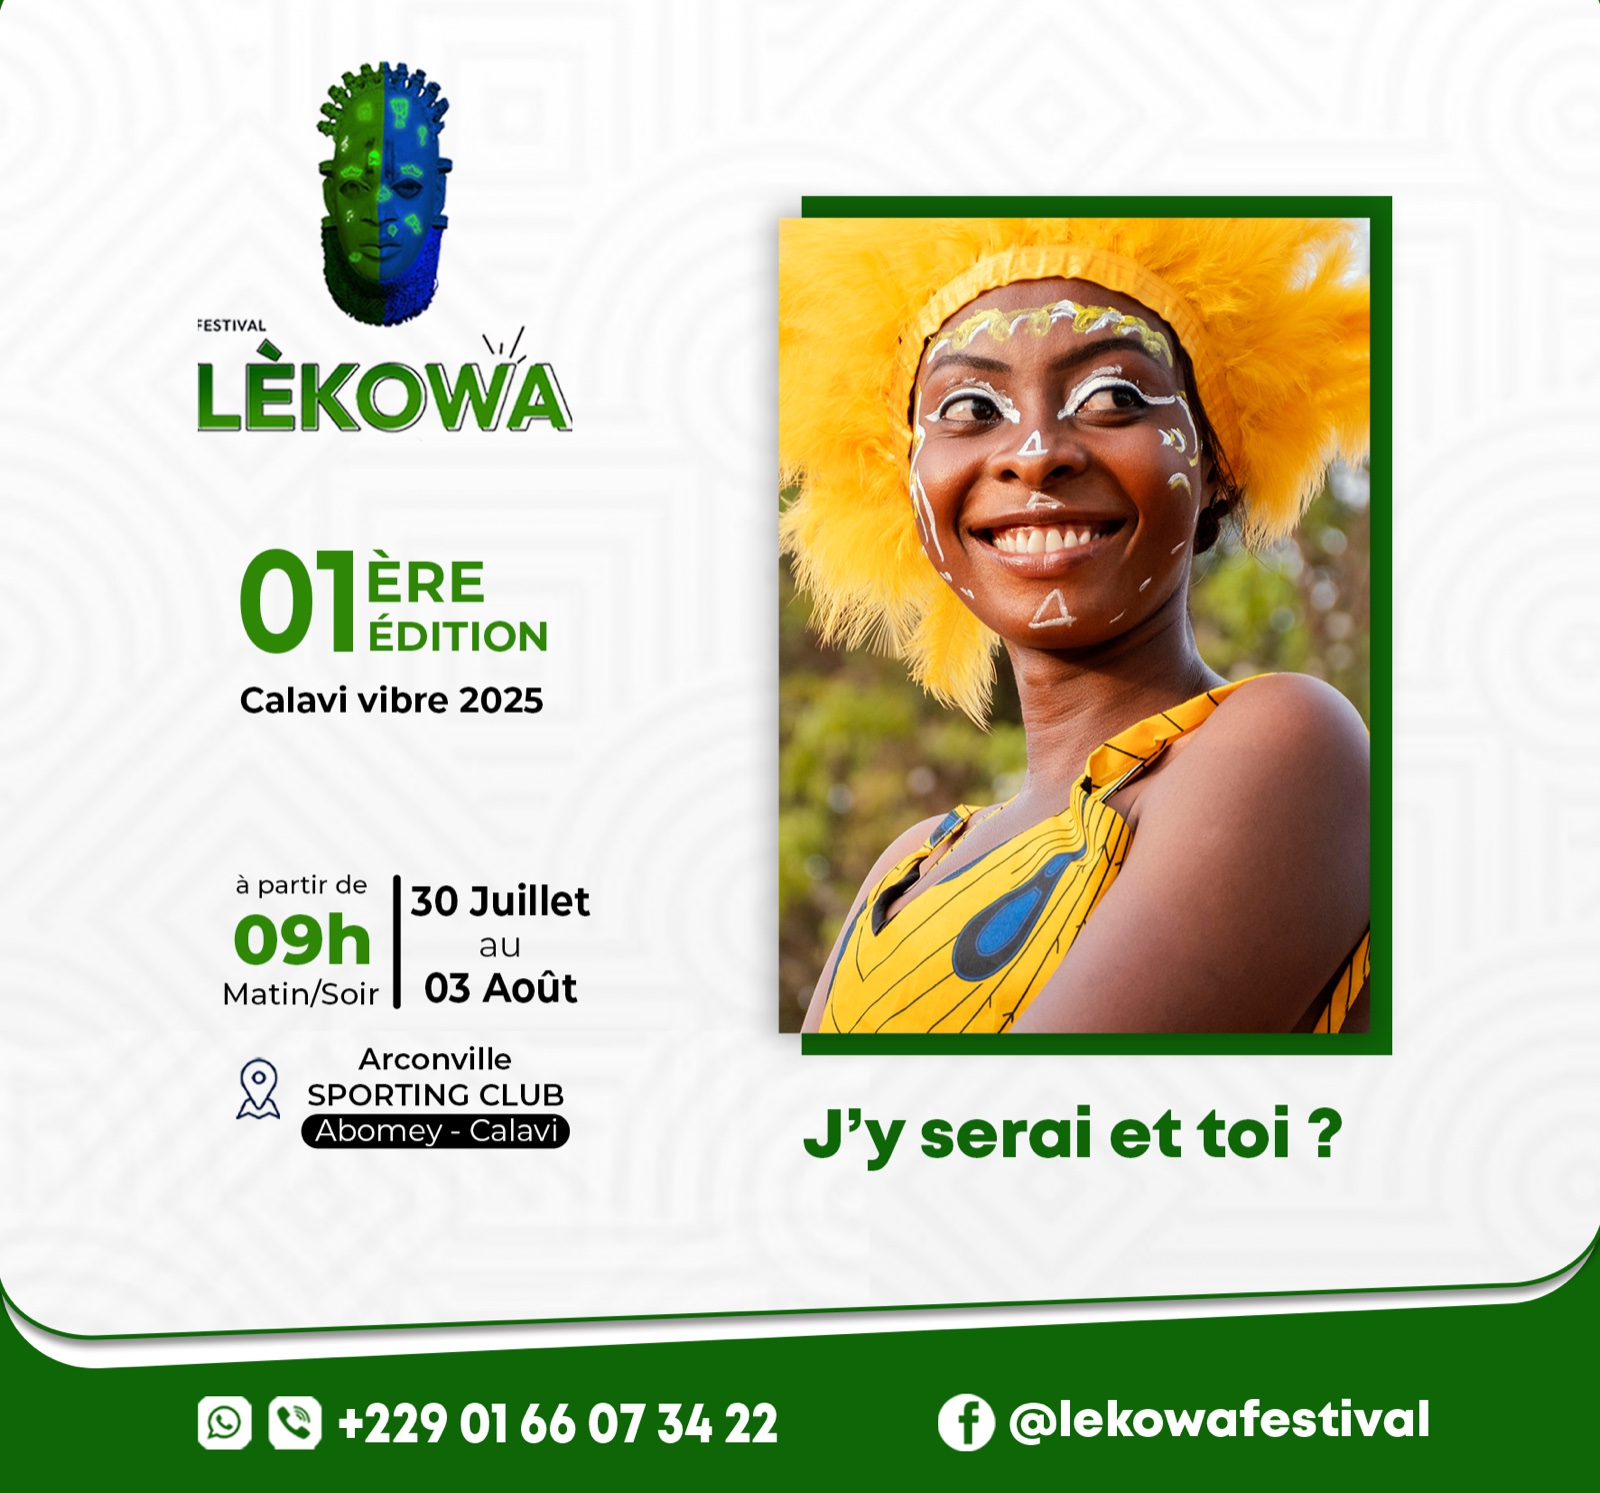
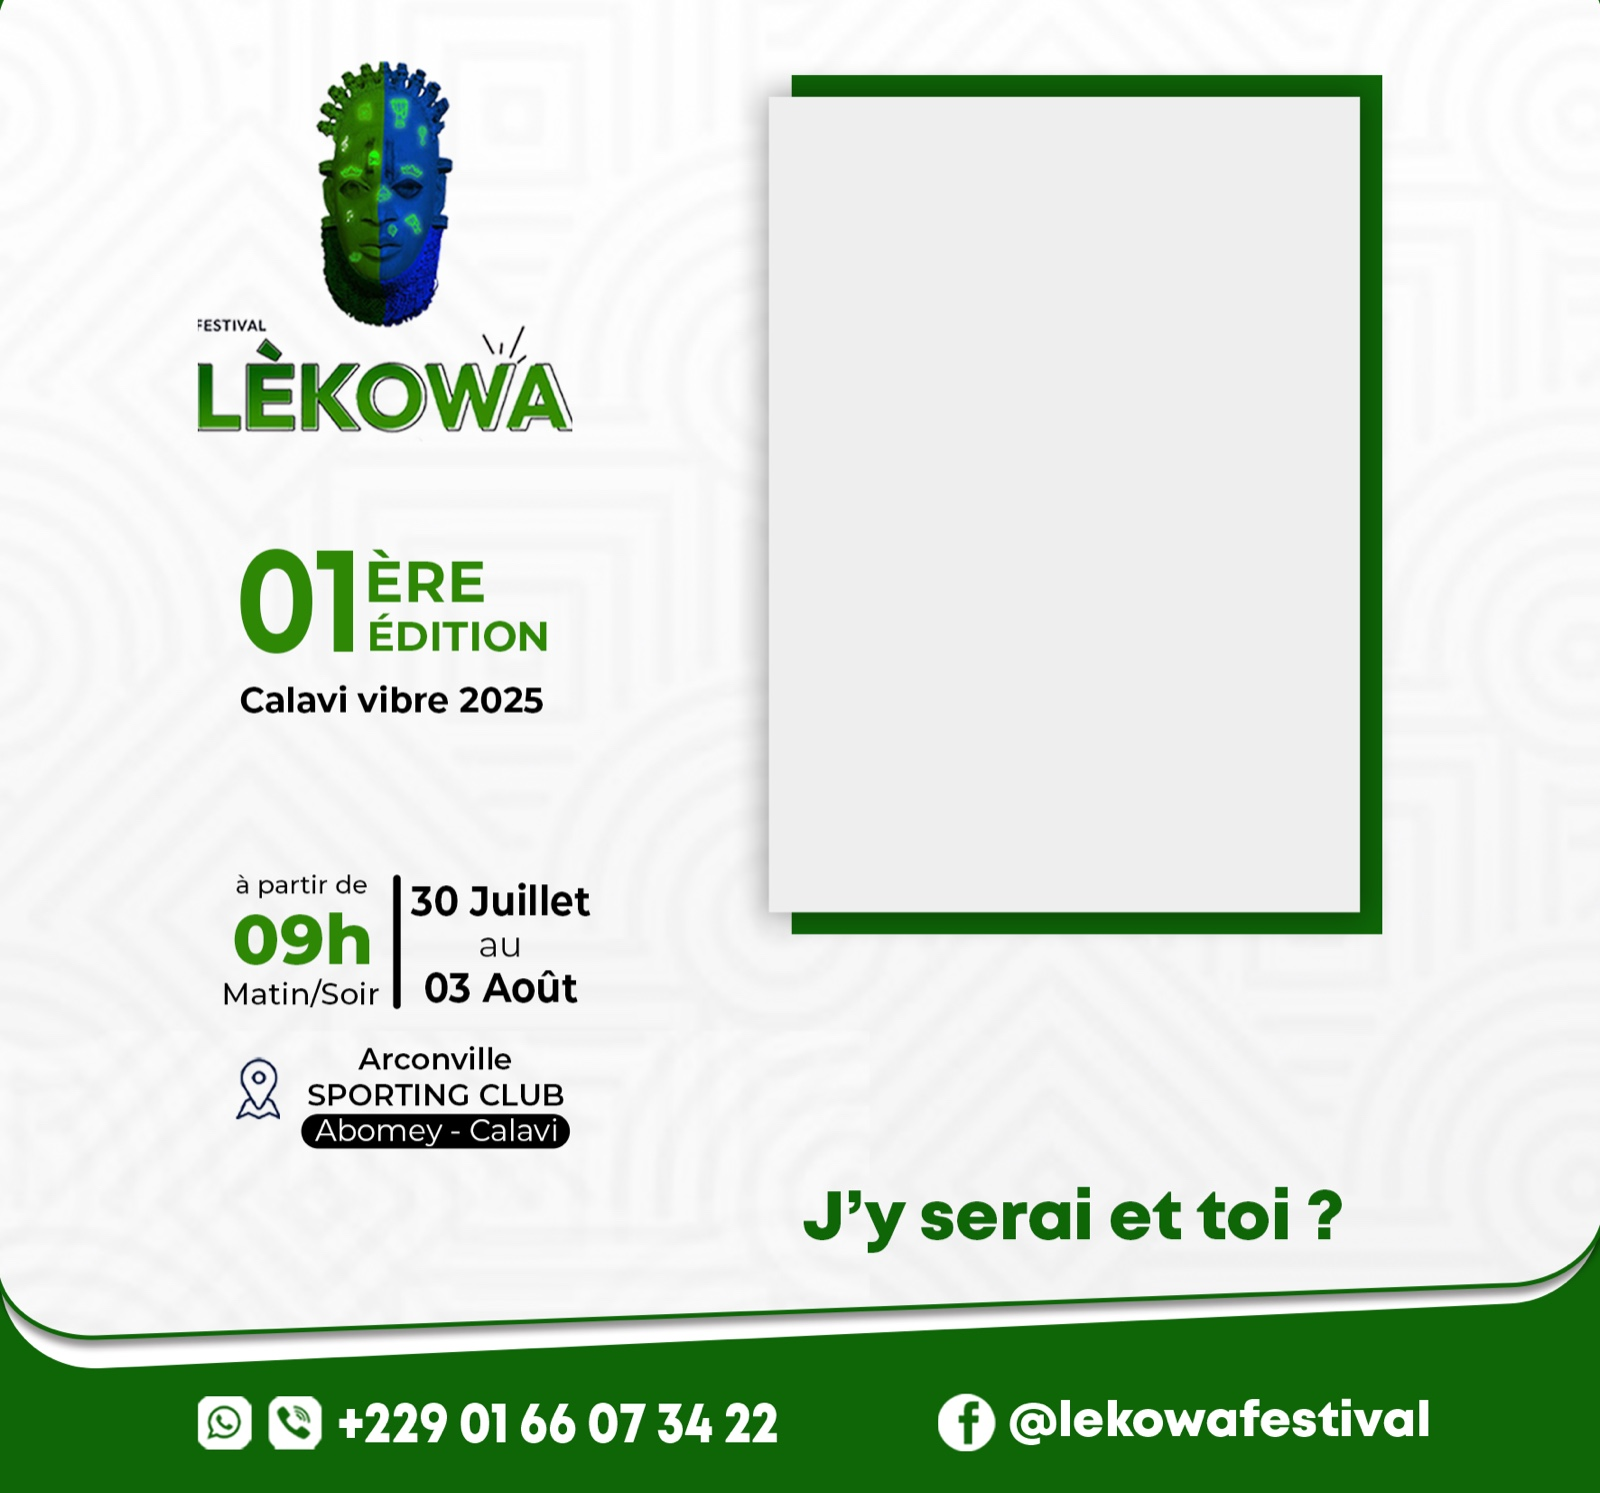
changement du modèle de badge

Changed region(s): [[0.4688, 0.0308, 0.875, 0.7086], [0.5, 0.7395, 0.8438, 0.8319]]

diff --git a/index.html b/index.html
@@ -110,8 +110,8 @@
 
             // 2. Dessiner la photo de l'utilisateur sans la déformer (style "cover")
             if (userImage) {
-                const photoX = 774;
-                const photoY = 215;
+                const photoX = 765;
+                const photoY = 95;
                 const photoWidth = 595;
                 const photoHeight = 825;
 
@@ -148,7 +148,7 @@
             // 3. Ajouter du nom & prenom du participant dans un rectangle
             // Utilisation des bonnes coordonnées qui sont DANS le canvas
             ctx.fillStyle = '#FFFFFF';
-            ctx.fillRect(760, 1180, 650, 100);
+            ctx.fillRect(760, 1000, 650, 120);
 
             // 4. Dessiner le nom de l'utilisateur
             const name = nameInput.value.trim() || "Votre Nom et Prénom";
@@ -166,7 +166,7 @@
             
             // CORRECTION: Utilisation des bonnes coordonnées pour le texte
             const textX = 1090;
-            const textY = 1250;
+            const textY = 1080;
             ctx.fillText(name, textX, textY);
         }
 
